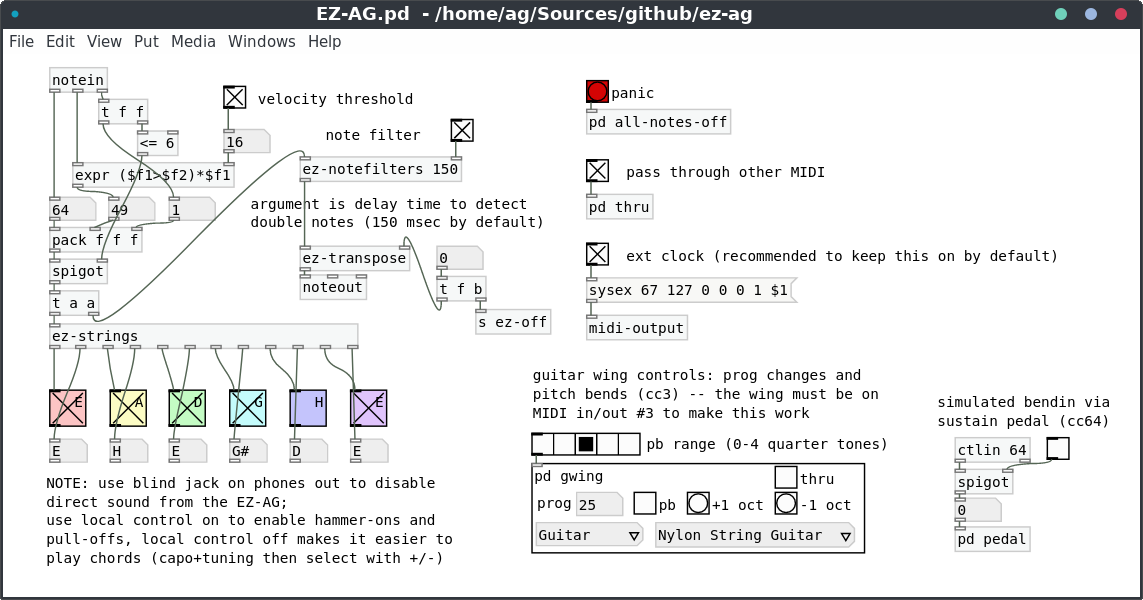
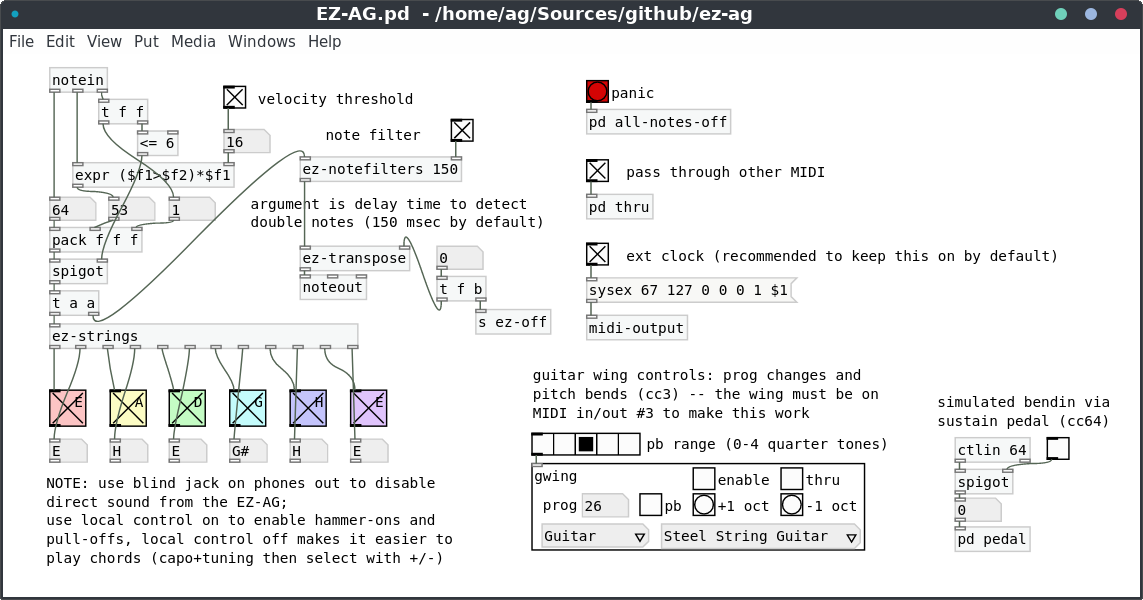
Update documentation

Changed region(s): [[0.4593, 0.75, 0.7655, 0.93], [0.245, 0.66, 0.2756, 0.69], [0.0919, 0.33, 0.1225, 0.36]]

diff --git a/README.md b/README.md
@@ -31,12 +31,12 @@ possible to simulate pitch bends via a sustain pedal (note that you'll have to
 hook up the pedal through a MIDI keyboard since the EZ-AG itself doesn't have
 a sustain pedal input).
 
-If you have the [Livid Guitar Wing][], you can also do pitch bends using the
-Wing's big fader (cc 3). The Wing will also let you change instruments (GM
-patches) and transpose by octaves up/down using some of its buttons (see below
-for details). Optionally, it is also possible to simply pass through all
-control data from the Wing so that you can route it, e.g., to your DAW program
-instead.
+If you have the [Livid Guitar Wing][], you can also do pitch bends using
+either the uppermost drum pad (cc 36) or using the Wing's big fader (cc
+3). The Wing will also let you change instruments (GM patches) and transpose
+by octaves up/down using some of its buttons (see below for details).
+Optionally, it is also possible to pass through all control data from the Wing
+so that you can route it, e.g., to your DAW program instead.
 
 [Livid Guitar Wing]: http://lividinstruments.com/products/guitar-wing/
 
@@ -150,8 +150,9 @@ releasing it); better control is provided through the Guitar Wing, see below.
 
 ## Guitar Wing Controls
 
-The "gwing" subpatch provides support for Livid's Guitar Wing controller. The
-provided functions are listed below.
+The "gwing" subpatch provides support for Livid's Guitar Wing controller.
+There is a toggle in the subpatch to enable this functionality, which should
+be on by default. The provided functions are listed below.
 
 ![Guitar Wing](wing.png)  
 
@@ -165,30 +166,36 @@ provided functions are listed below.
   subpatch. E.g., you might want to assign the little faders cc 1 and cc 2
   instead and allow for both upward and downward bends.)
   
+- The first white pad on the Wing (button 3) provides an alternative way to
+  control pitch bends. The pads are touch-sensitive, so applying different
+  amounts of pressure on button 3 will translate to different pitch bend
+  values. This is a bit harder to control than the big fader, but may be more
+  convenient to do quick pitch bends.
+
+- The second and third pads (buttons 4 and 5) can be used to transpose the
+  MIDI note input from the EZ-AG (same as the +/-1 oct buttons in the patch).
+  Note that this is independent from the TUNING button on the EZ-AG. Moreover,
+  the EZ-AG automagically transposes notes depending on the instrument sound
+  chosen with the SOUND SELECT button on the device, so that, e.g., if you
+  pick a bass sound on the EZ-EG then the note input from the EZ-AG will
+  already be an octave lower than normal.
+  
+- The fourth pad (button 6) is equivalent to clicking the "panic" button in
+  the patch, i.e., it turns off all sounding notes.
+  
 - The direction buttons (buttons 9 and 10) can be used to switch between GM
   patches (instrument sounds). Also, the four little side buttons (buttons
   15-18) can be used to change the GM program number in larger increments. The
   current setting is shown in the "prog" field, as well as the two dropdown
   lists at the bottom of the abstraction, and can also be changed there.
   
-- The first white pad on the Wing (button 3) is equivalent to clicking the
-  "panic" button in the patch, i.e., it turns off all sounding notes. The
-  second and third pads (buttons 4 and 5) can be used to transpose the MIDI
-  note input from the EZ-AG (same as the +/-1 oct buttons in the patch). Note
-  that this is independent from the TUNING button on the EZ-AG. Moreover, the
-  EZ-AG automagically transposes notes depending on the instrument sound
-  chosen with the SOUND SELECT button on the device, so that, e.g., if you
-  pick a bass sound on the EZ-EG then the note input from the EZ-AG will
-  already be an octave lower than normal.
-  
 - The remaining controls on the Wing aren't assigned right now, but might be
   in the future.
-  
-Finally, you can also bypass all of this and route the control data from the
-Wing to your DAW instead. To these ends, enable the "thru" toggle in the gwing
-subpatch and hook up your DAW's control input to Pd's MIDI output #2. (If
-nothing is hooked up to this MIDI output then the "thru" toggle will
-effectively disable all local processing of the Guitar Wing data.)
+
+All this special processing can also be turned off with the "enable" toggle.
+Finally, you can also route the control data from the Wing to your DAW. To
+these ends, enable the "thru" toggle in the gwing subpatch and hook up your
+DAW's control input to Pd's MIDI output #2.
 
 ## Ardour Support
 
